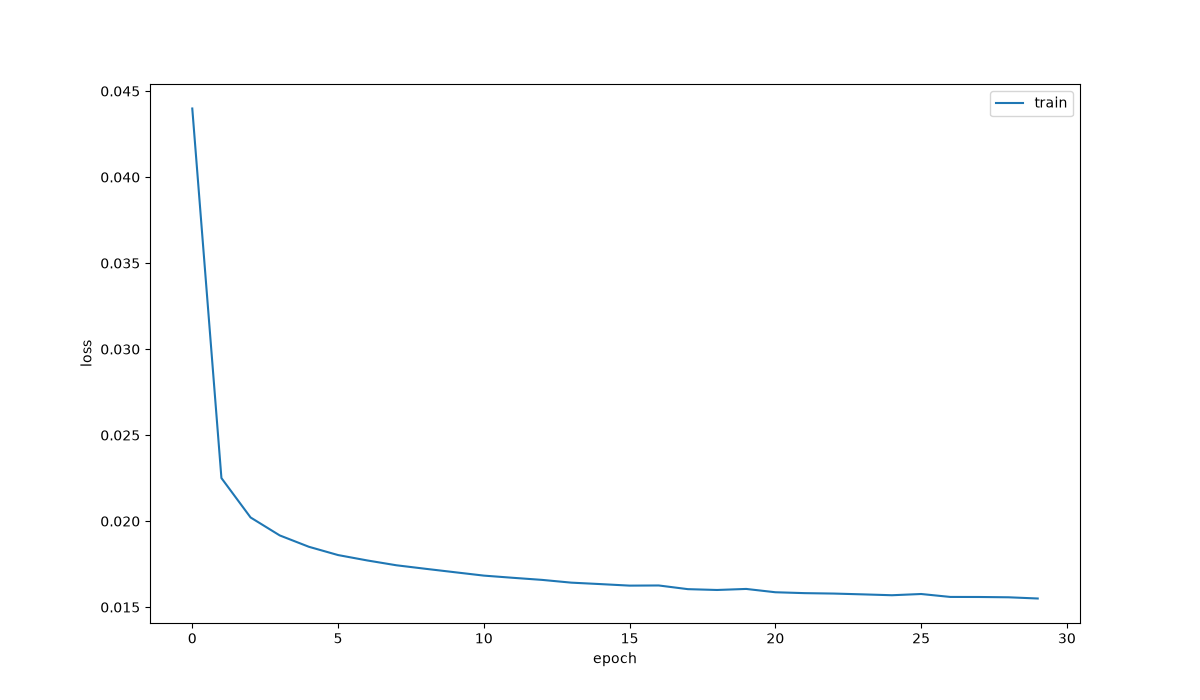
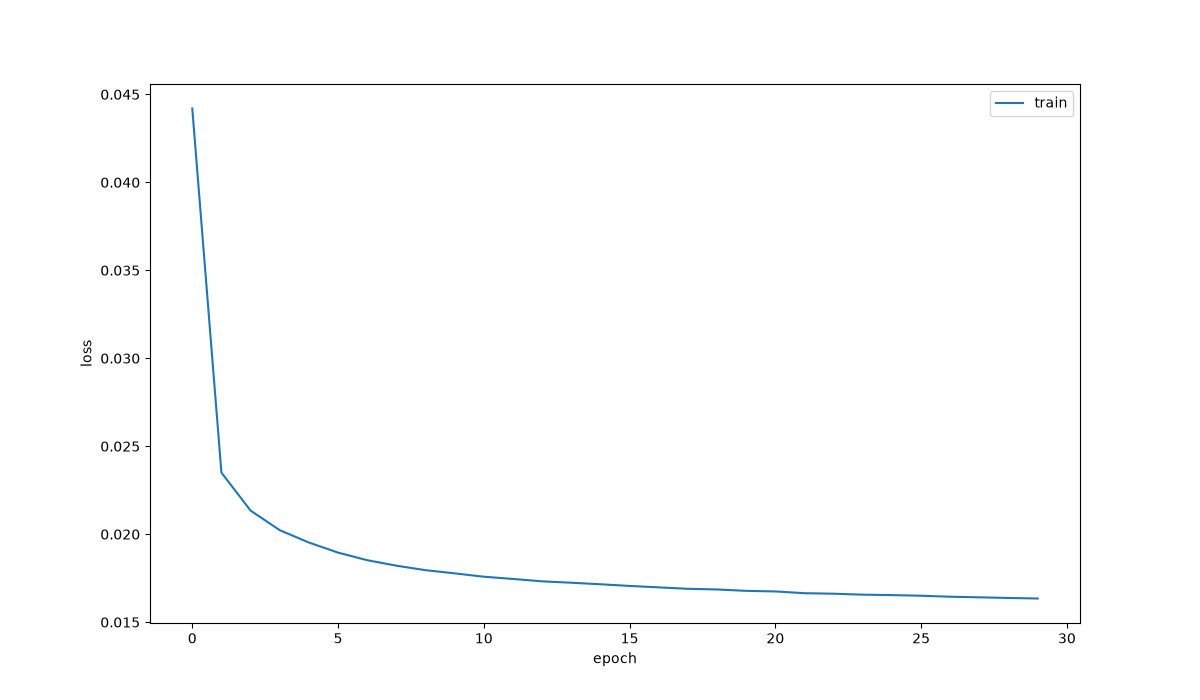
Update file codes

diff --git a/Assignments/lab1/task_4a.py b/Assignments/lab1/task_4a.py
@@ -1,0 +1,101 @@
+import argparse
+
+import matplotlib.pyplot as plt
+import torch
+import torch.nn as nn
+import torchvision.transforms as transforms
+from torchvision.datasets import FashionMNIST
+
+from model import autoencoderMLP4Layer
+
+DATA_DIR = './data'   # change if using Colab
+
+CLASSES = ['T-shirt/top', 'Trouser', 'Pullover', 'Dress', 'Coat',
+           'Sandal', 'Shirt', 'Sneaker', 'Bag', 'Ankle boot']
+
+
+def main():
+    print('running main ...')
+
+    argParser = argparse.ArgumentParser()
+    argParser.add_argument('-s', metavar='state', type=str, help='parameter file (.pth)')
+    argParser.add_argument('-z', metavar='bottleneck size', type=int, help='int [8]')
+
+    args = argParser.parse_args()
+
+    save_file = args.s
+    bottleneck_size = args.z
+
+    device = 'cpu'
+    if torch.cuda.is_available():
+        device = 'cuda'
+    print('\t\tusing device ', device)
+
+    test_transform = transforms.Compose([transforms.ToTensor()])
+    test_set = FashionMNIST(DATA_DIR, train=False, download=False, transform=test_transform)
+
+    # Configurations
+    N_input = 28 * 28
+    N_output = N_input
+    model = autoencoderMLP4Layer(N_input=N_input, N_bottleneck=bottleneck_size, N_output=N_output)
+    model.load_state_dict(torch.load(save_file, weights_only=True))
+    model.to(device)
+    # Evaluation mode
+    model.eval()
+    # Loss function definition
+    criterion = nn.MSELoss()
+
+    # Store one image per class
+    images_by_class = {}
+    # Iterate through the test set
+    for image, label in test_set:
+        if label not in images_by_class:
+            img = image.view(1, N_input).to(device=device)
+            images_by_class[label] = img
+
+        if len(images_by_class) == 10:
+            break
+
+    # Loss tracker for each class
+    loss_by_class = {}
+    with torch.no_grad():
+        for label in images_by_class.keys():
+            img = images_by_class[label]
+            output = model(img)
+            loss = criterion(output, img)
+            loss_by_class[label] = loss            
+            print(f"Class: {CLASSES[label]} | Test Loss: {loss.item()}")
+
+    # Find top 3 worst classes
+    top_3_worst = sorted(loss_by_class, key=loss_by_class.get, reverse=True)[:3]
+    worst_names = [CLASSES[label] for label in top_3_worst]
+    print(f"The top-3 worst reconstructions are labels {top_3_worst} ({', '.join(worst_names)}).")
+
+    # Visualize examples of the top 3 worst classes
+    f = plt.figure(figsize=(9, 8))
+    
+    for i, label in enumerate(top_3_worst):
+        with torch.no_grad():
+            output = model(images_by_class[label])
+            
+        # Resize for Matplotlib
+        img = images_by_class[label].view(28, 28).cpu()
+        output = output.view(28, 28).cpu()
+        
+        # Plot Input
+        f.add_subplot(3, 2, 2 * i + 1)
+        plt.imshow(img, cmap='gray')
+        plt.title(f'input: {CLASSES[label]}')
+        plt.axis('off')
+        
+        # Plot Reconstruction
+        f.add_subplot(3, 2, 2 * i + 2)
+        plt.imshow(output, cmap='gray')
+        plt.title('reconstruction')
+        plt.axis('off')
+
+    plt.tight_layout()
+    plt.show()
+
+if __name__ == '__main__':
+    main()

diff --git a/Assignments/lab1/interpolate.py b/Assignments/lab1/interpolate.py
@@ -108,7 +108,7 @@ def main():
                 final_outputs[i] = final_outputs[i].view(28, 28).cpu()
 
             # 6. Plot figure
-            f = plt.figure()
+            f = plt.figure(figsize=(20, 3))
             for i in range(n + 2):
                 f.add_subplot(1, n+2, i+1)
                 plt.imshow(final_outputs[i], cmap="gray")
@@ -117,6 +117,8 @@ def main():
                     plt.title(CLASSES[label1]) 
                 elif i == n + 1:
                     plt.title(CLASSES[label2])
+                else:
+                    plt.title(f"a = {a[i-1]:.2f}")
 
             plt.show()
 

diff --git a/Assignments/lab1/denoise.py b/Assignments/lab1/denoise.py
@@ -77,11 +77,11 @@ def main():
 
         f.add_subplot(1, 3, 2)
         plt.imshow(noisy_img, cmap='gray')
-        plt.title('input: ' + CLASSES[label])
+        plt.title('add noise: ' + CLASSES[label])
         
         f.add_subplot(1, 3, 3)
         plt.imshow(output, cmap='gray')
-        plt.title('reconstruction')
+        plt.title('Reconstruction')
         plt.show()
 
 
